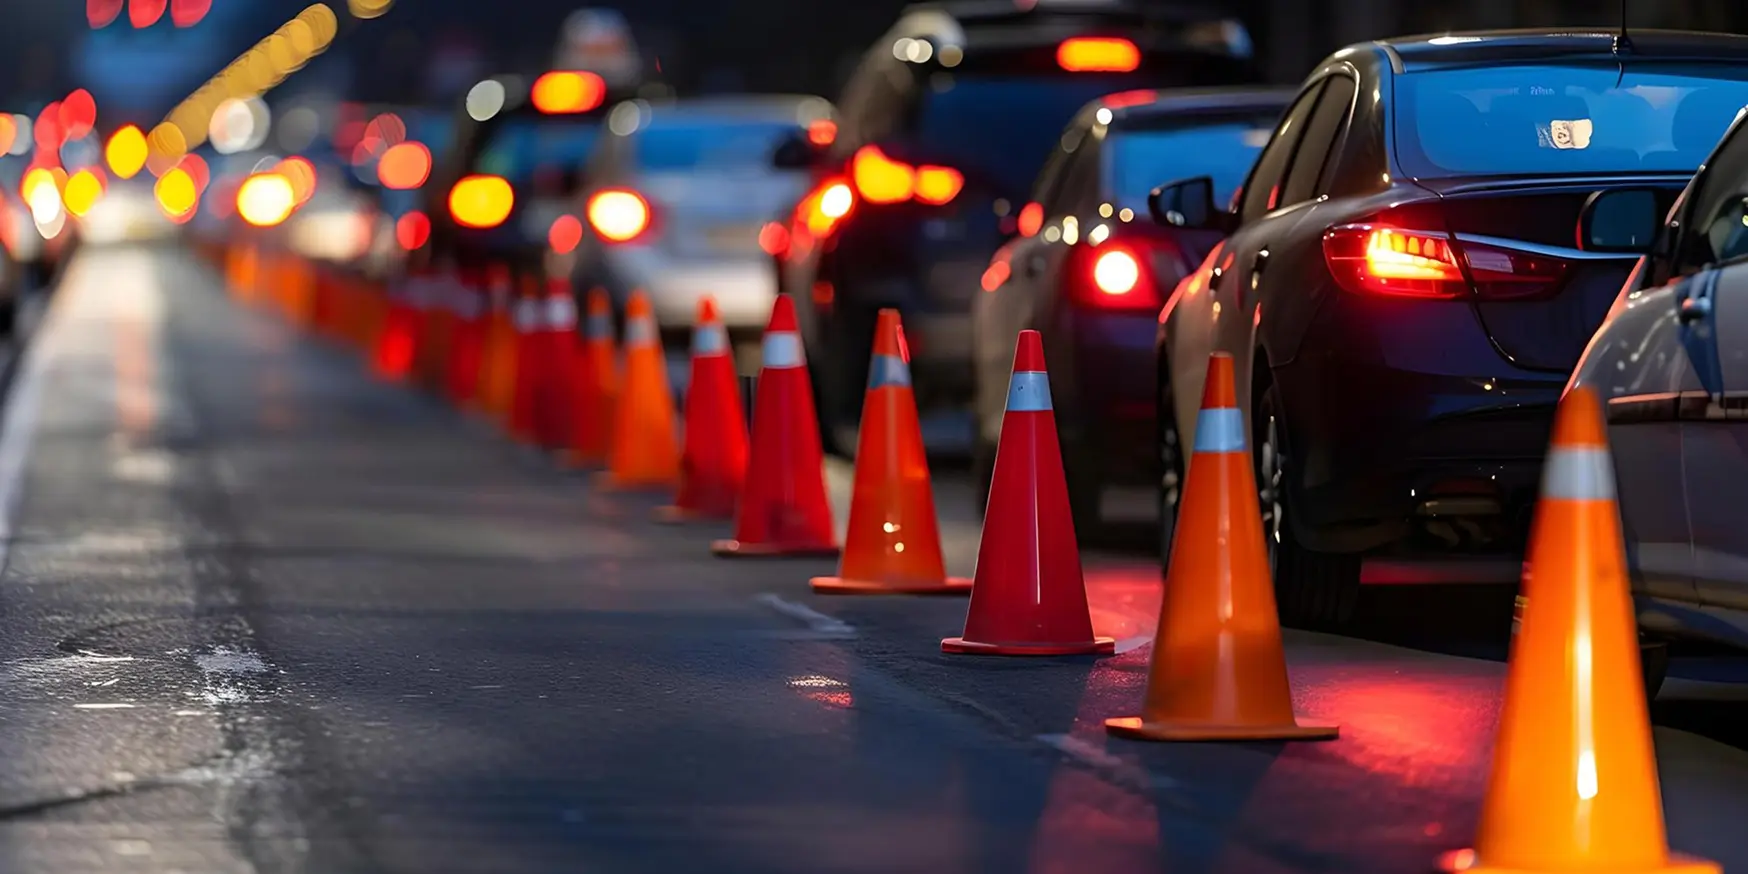
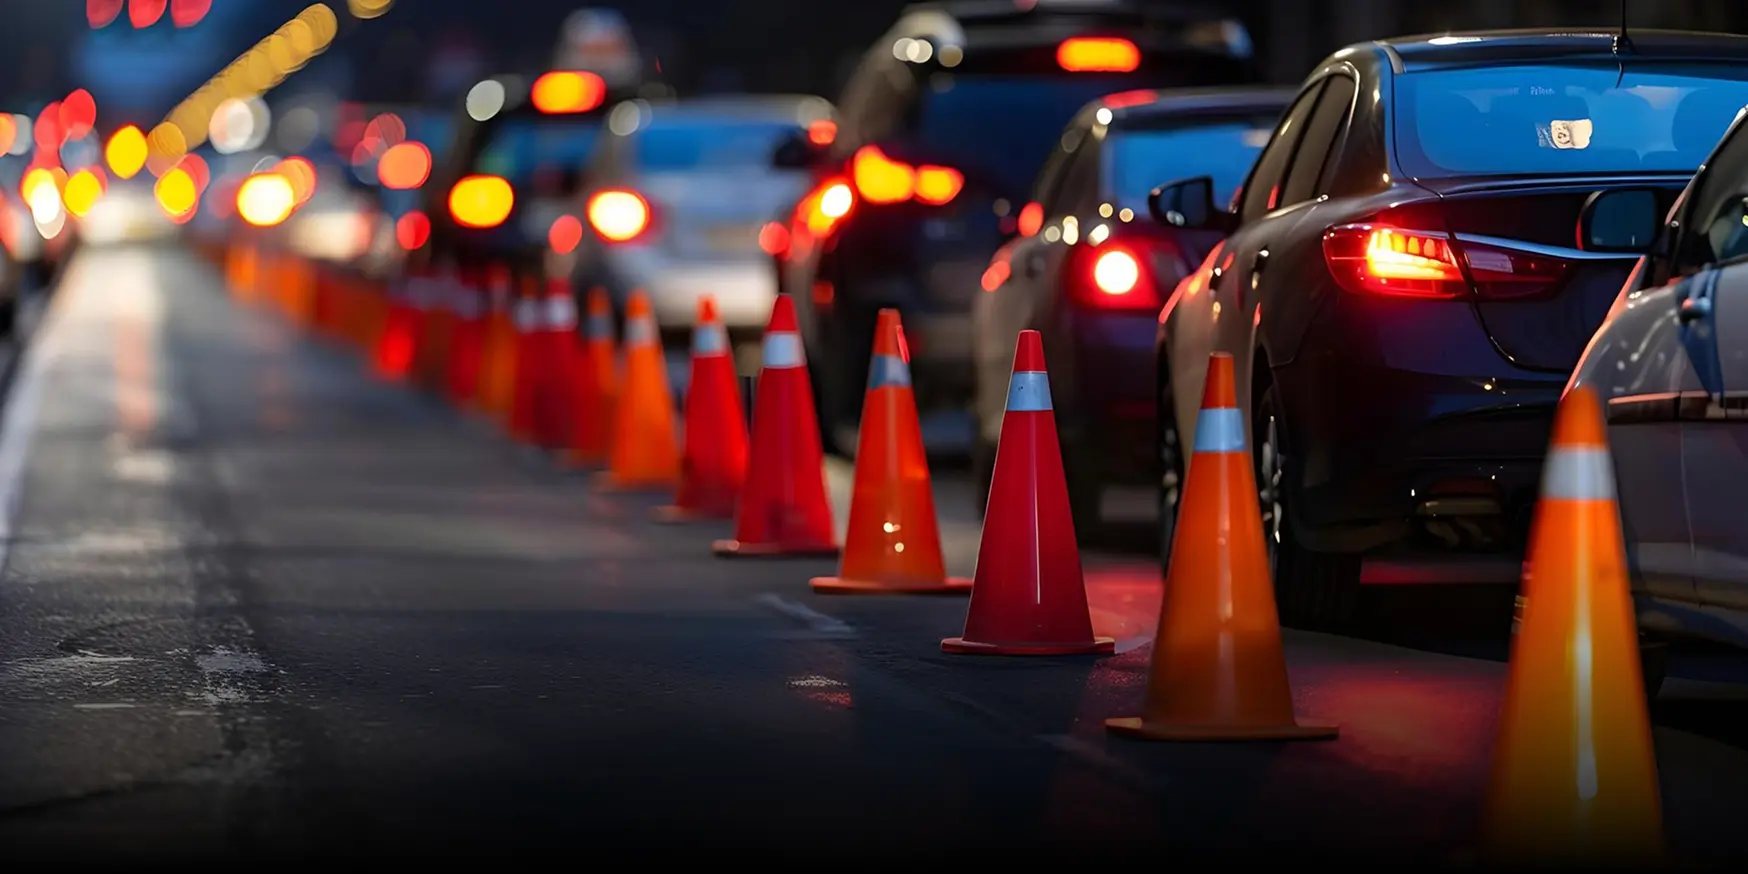
fix: Finaliza revisão

Changed region(s): [[0.0, 0.6178, 1.0, 1.0]]

diff --git a/src/components/sections/lp01/CtaUrgency.jsx b/src/components/sections/lp01/CtaUrgency.jsx
@@ -11,17 +11,17 @@ export default function CtaUrgency() {
 
   return (
     <div
-      className="relative bg-scroll bg-center bg-cover desktop1:bg-fixed bg-bgSectionLight"
-    //   style={{
-    //     backgroundImage: `url(${contentLp01.ctaUrgency.bgImg})`,
-    //     backgroundRepeat: "no-repeat",
-    //   }}
+      className="relative bg-scroll bg-center bg-cover desktop1:bg-fixed"
+      //   style={{
+      //     backgroundImage: `url(${contentLp01.ctaUrgency.bgImg})`,
+      //     backgroundRepeat: "no-repeat",
+      //   }}
       id=""
     >
       <div className="absolute inset-0  z-0 pointer-events-none" />
 
       <div className="relative z-10 flex justify-center w-full text-black">
-        <SectionArea className="" paddingbot={false}>
+        <SectionArea className="" paddingbot={false} paddingtop={true}>
           <SectionWrapper>
             <SectionHeader
               className="text-center"

diff --git a/src/content/contentLp01.jsx b/src/content/contentLp01.jsx
@@ -333,17 +333,17 @@ const contentLp01 = {
       title: "Fale com a Ápice Assessoria de Trânsito agora mesmo",
       subtitle: (
         <p className="opacity-80">
-          Envie seus dados e receba uma análise agora mesmo: <br />
+          Envie seus dados e receba uma análi se agora mesmo: <br />
           <br />
-          <span className="text-bgSectionDark"> Nome</span>
-          <br />
-          <br />
-          <span className="text-bgSectionDark"> WhatsApp</span>
+          <span className="text-white/80">- Nome</span>
           <br />
           <br />
-          <span className="text-bgSectionDark">
+          <span className="text-white/80">- WhatsApp</span>
+          <br />
+          <br />
+          <span className="text-white/80">
             {" "}
-            Placa do veículo ou nº do processo
+            - Placa do veículo ou nº do processo
           </span>
         </p>
       ),

diff --git a/tailwind.config.js b/tailwind.config.js
@@ -6,7 +6,7 @@ export const theme = {
       // Principais
 
       primary: "#000000",
-      buttonColor: "#000000",
+      buttonColor: "#F49F22",
       minititleDark: "#F49F22", //bg minitag de seções claras
       minititle: "#F49F22", //bg minitag de seções escuras
 
@@ -29,10 +29,10 @@ export const theme = {
       // Botões e Links
 
       links: "#0189BB",
-      iconButtons: "#fff",
-      labelButtons: "#fff",
-      minititleLightLabel: "#fff", //label das minitag de seções claras
-      minititleDarkLabel: "#fff", //label minitag de seções escuras
+      iconButtons: "#000",
+      labelButtons: "#000",
+      minititleLightLabel: "#000", //label das minitag de seções claras
+      minititleDarkLabel: "#000", //label minitag de seções escuras
 
       // Sombras
 

diff --git a/src/components/interactives/BackToTopButton.jsx b/src/components/interactives/BackToTopButton.jsx
@@ -31,7 +31,7 @@ const BackToTopButton = () => {
     <button
       className={`${
         isVisible ? "block animate-fade-in" : "hidden"
-      } fixed bottom-8 left-8 p-4 bg-primary text-white border-black rounded-full z-10 focus:outline-none hover:scale-125 transition`}
+      } fixed bottom-8 left-8 p-4 bg-buttonColor text-white border-black rounded-full z-10 focus:outline-none hover:scale-125 transition`}
       onClick={scrollToTop}
     >
       <ArrowUp className="text-labelButtons" />

diff --git a/src/components/sections/lp01/FeaturesLP.jsx b/src/components/sections/lp01/FeaturesLP.jsx
@@ -7,7 +7,7 @@ import FeatureCardLP from "./FeatureCardLP";
 export default function FeaturesLP() {
   return (
     <>
-      <SectionArea>
+      <SectionArea className=''>
         <SectionWrapper>
           <SectionHeader
             miniTitle={contentLp01.features.sectionHeader.miniTag}
